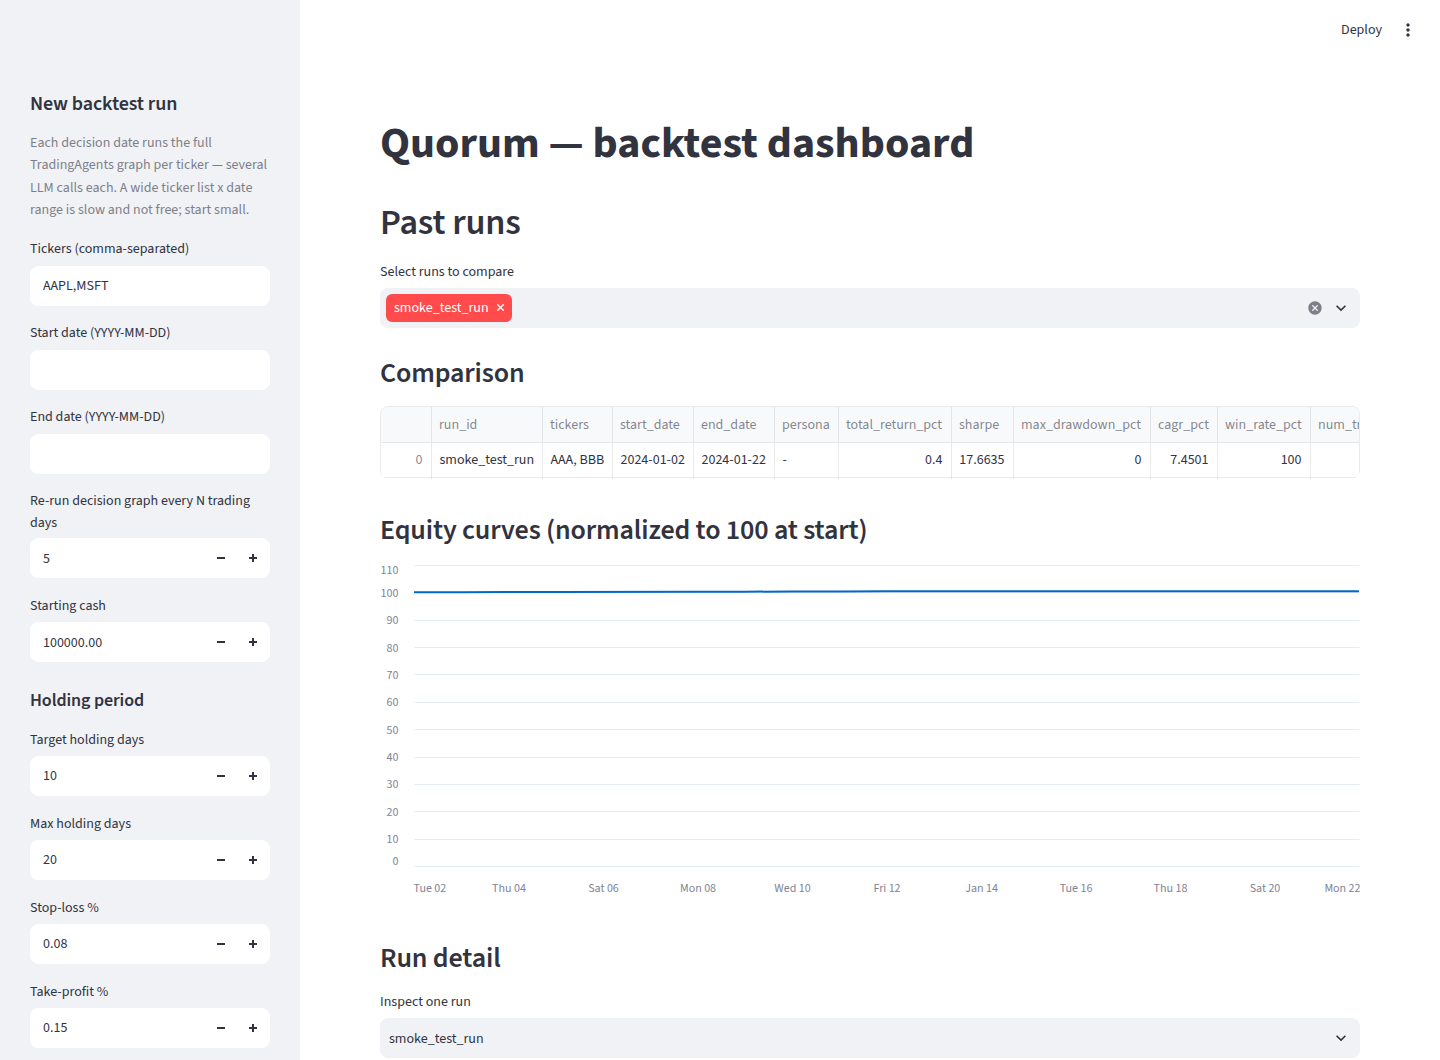
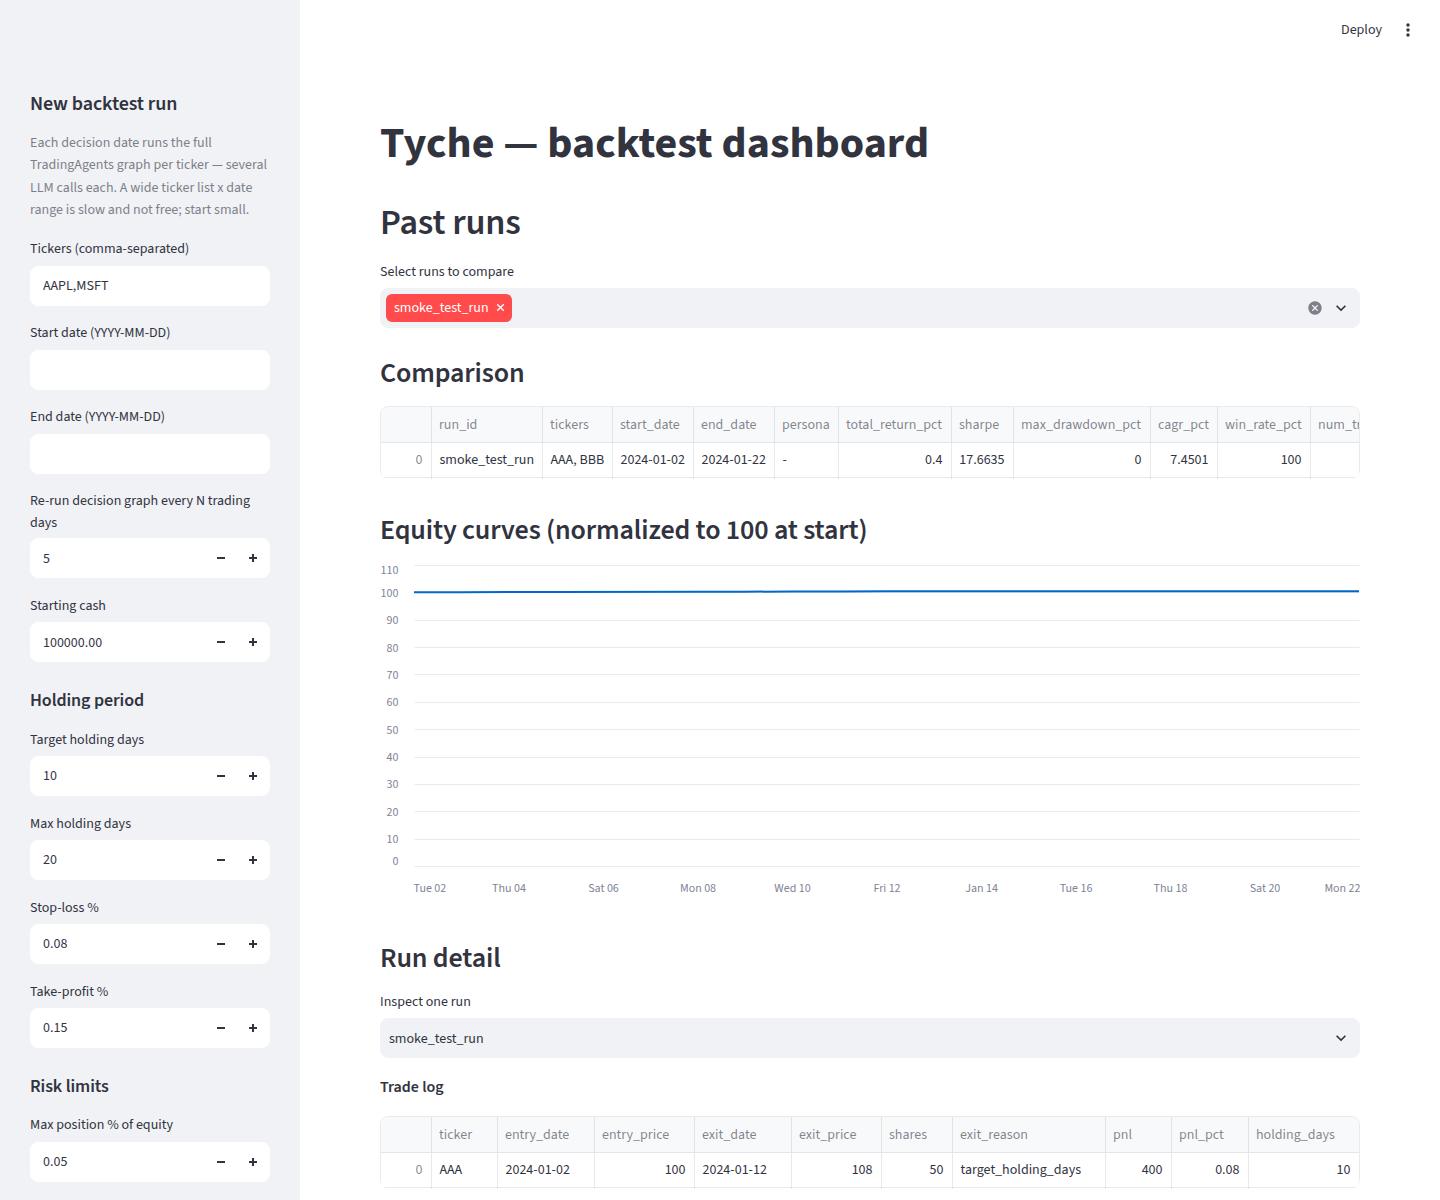
Rename project to Tyche
quorum/ -> tyche/ (including the investorskills submodule, moved via
git mv which updated .gitmodules automatically), package name in
pyproject.toml, all internal imports/paths, dashboard title, and README.
Named after Tyche (Greek goddess of fortune and chance) -- markets are her
domain regardless of how much multi-agent debate sits on top, which is
now stated directly in the README's intro alongside the Status section.
The old rationale (a quorum of agents that must agree) still describes
the decision engine's actual mechanism, so that language stays in the
README as a description, not the name.

Regenerated the dashboard screenshot against a fresh run so it shows the
new title instead of the stale one. Full test suite (27 tests) and all
three smoke tests re-verified against the renamed package before
committing.

Claude-Session: https://claude.ai/code/session_01WSfPZLNRKQYhxWWP9mVr7Q

diff --git a/tyche/personas/__init__.py b/tyche/personas/__init__.py
@@ -1,16 +1,16 @@
 """Optional investor personas layered onto TradingAgents' bull/bear debate.
 
 A persona is one skill from ``questflowai/investorskills`` (a pinned
-external checkout — see ``quorum.personas.source``) parsed into a
+external checkout — see ``tyche.personas.source``) parsed into a
 ``Persona`` and, when compatible with our ~10 trading-day swing-trading
-horizon (``quorum.personas.compatibility``), injectable into the actual
+horizon (``tyche.personas.compatibility``), injectable into the actual
 bull/bear researcher prompts TradingAgents sends to the LLM
-(``quorum.personas.graph.apply_persona``).
+(``tyche.personas.graph.apply_persona``).
 
-Typical use, alongside ``quorum.decision.engine.DecisionEngine``::
+Typical use, alongside ``tyche.decision.engine.DecisionEngine``::
 
-    from quorum.personas import CURATED_SLUGS, apply_persona, load_persona
-    from quorum.decision.engine import DecisionEngine
+    from tyche.personas import CURATED_SLUGS, apply_persona, load_persona
+    from tyche.decision.engine import DecisionEngine
 
     persona = load_persona("darvas-box")
     with apply_persona(persona):
@@ -20,24 +20,24 @@ Typical use, alongside ``quorum.decision.engine.DecisionEngine``::
 
 from __future__ import annotations
 
-from quorum.personas.compatibility import (
+from tyche.personas.compatibility import (
     HorizonEstimate,
     PersonaFit,
     assess,
     filter_compatible,
     parse_time_horizon,
 )
-from quorum.personas.curated import CURATED_SLUGS
-from quorum.personas.graph import apply_persona
-from quorum.personas.models import Persona, list_available_slugs, load_all_personas
-from quorum.personas.models import load_persona as _load_persona_from_dir
-from quorum.personas.prompts import persona_preamble
-from quorum.personas.source import resolve_source_dir
+from tyche.personas.curated import CURATED_SLUGS
+from tyche.personas.graph import apply_persona
+from tyche.personas.models import Persona, list_available_slugs, load_all_personas
+from tyche.personas.models import load_persona as _load_persona_from_dir
+from tyche.personas.prompts import persona_preamble
+from tyche.personas.source import resolve_source_dir
 
 
 def load_persona(slug: str, source_dir: str | None = None) -> Persona:
     """Load one persona by slug, resolving the investorskills checkout the
-    same way :func:`quorum.personas.source.resolve_source_dir` does."""
+    same way :func:`tyche.personas.source.resolve_source_dir` does."""
     return _load_persona_from_dir(slug, resolve_source_dir(source_dir))
 
 

diff --git a/tests/test_personas.py b/tests/test_personas.py
@@ -1,4 +1,4 @@
-"""Tests for quorum.personas: parsing, compatibility filtering, and — the
+"""Tests for tyche.personas: parsing, compatibility filtering, and — the
 bar the task actually cares about — that a selected persona's distinctive
 text really reaches the prompt handed to ``llm.invoke`` inside a
 constructed ``TradingAgentsGraph``, not just that some Python object exists.
@@ -15,17 +15,17 @@ from types import SimpleNamespace
 
 import pytest
 
-from quorum.personas.compatibility import assess, filter_compatible, parse_time_horizon
-from quorum.personas.graph import apply_persona
-from quorum.personas.models import Persona, load_all_personas, load_persona, parse_persona
-from quorum.personas.prompts import persona_preamble
-from quorum.personas.source import resolve_source_dir
+from tyche.personas.compatibility import assess, filter_compatible, parse_time_horizon
+from tyche.personas.graph import apply_persona
+from tyche.personas.models import Persona, load_all_personas, load_persona, parse_persona
+from tyche.personas.prompts import persona_preamble
+from tyche.personas.source import resolve_source_dir
 
 # The scratchpad clone this task was given to read TradingAgents/investorskills
 # source from. Real integration tests below use it when present and skip
 # cleanly (rather than failing) when this repo is checked out somewhere that
 # doesn't have it — e.g. CI, or a future clone with the real submodule set up
-# at quorum/personas/vendor/investorskills instead.
+# at tyche/personas/vendor/investorskills instead.
 _SCRATCHPAD_INVESTORSKILLS = (
     "/tmp/claude-0/-home-user-hedgefunding/586aef10-96ba-571c-b6a0-851ce8f51e35"
     "/scratchpad/research/investorskills"
@@ -159,7 +159,7 @@ Some distinctive prose about consolidation boxes.
 
 
 def test_parse_persona_missing_closing_delimiter_raises():
-    from quorum.personas.models import PersonaParseError
+    from tyche.personas.models import PersonaParseError
 
     with pytest.raises(PersonaParseError):
         parse_persona("bad", "---\nname: x\n", "invest.md")
@@ -190,7 +190,7 @@ def test_load_all_personas_is_best_effort_over_all_63_skills():
 def test_curated_personas_verified_against_real_checkout():
     """Cross-check curated.py's documented fields against the actual files —
     if investorskills changes these upstream, this test is the tripwire."""
-    from quorum.personas.curated import CURATED_SLUGS
+    from tyche.personas.curated import CURATED_SLUGS
 
     source_dir = _real_source_dir()
     expected = {

diff --git a/tyche/decision/engine.py b/tyche/decision/engine.py
@@ -9,7 +9,7 @@ decision to do nothing, it's a run that needs a human or a re-run. See
 
 The trader agent also proposes an entry price / stop-loss / position size,
 but those are advisory LLM output, not enforced limits. Our own
-``quorum.risk.gate`` and ``quorum.config`` are the actual authority on
+``tyche.risk.gate`` and ``tyche.config`` are the actual authority on
 position size and exit rules — the LLM proposes, the deterministic gate
 disposes.
 
@@ -24,9 +24,9 @@ resolved by that date). We only need to turn it on (``memory_log_path`` in
 config) and call ``settle`` once a ticker's date grid is done, exactly the
 way TradingAgents' own ``tradingagents/backtest.py`` does.
 
-An optional ``persona`` (see ``quorum.personas``) wires an investorskills
+An optional ``persona`` (see ``tyche.personas``) wires an investorskills
 investor framework into the bull/bear researcher debate via
-``quorum.personas.graph.apply_persona`` — a monkeypatch of TradingAgents'
+``tyche.personas.graph.apply_persona`` — a monkeypatch of TradingAgents'
 researcher-node factories, since there's no supported extension point for
 this (see that module's docstring for why). The patch only affects graph
 construction, so it must wrap this constructor, not calls to ``decide``.
@@ -42,9 +42,9 @@ from tradingagents.agents.utils.rating import RATING_REVIEW
 from tradingagents.default_config import DEFAULT_CONFIG
 from tradingagents.graph.trading_graph import TradingAgentsGraph
 
-from quorum.config import DEFAULT_HOLDING_PERIOD, HoldingPeriodConfig
-from quorum.personas.graph import apply_persona
-from quorum.personas.models import Persona
+from tyche.config import DEFAULT_HOLDING_PERIOD, HoldingPeriodConfig
+from tyche.personas.graph import apply_persona
+from tyche.personas.models import Persona
 
 Action = Literal["buy", "hold", "sell"]
 
@@ -81,7 +81,7 @@ class DecisionEngine:
         self,
         config: dict | None = None,
         debug: bool = False,
-        memory_log_path: str | Path | None = "results/quorum_trading_memory.md",
+        memory_log_path: str | Path | None = "results/tyche_trading_memory.md",
         holding_period: HoldingPeriodConfig = DEFAULT_HOLDING_PERIOD,
         persona: Persona | None = None,
     ):

diff --git a/tyche/dashboard/app.py b/tyche/dashboard/app.py
@@ -1,10 +1,10 @@
 """Streamlit dashboard: launch backtest runs, compare them, read what the
 agents' memory log actually learned.
 
-Run with: ``streamlit run quorum/dashboard/app.py``
+Run with: ``streamlit run tyche/dashboard/app.py``
 
 Deliberately thin: all the actual logic (running a backtest, scoring a run)
-lives in ``quorum.backtest.runner`` and ``quorum.dashboard.data``, which are
+lives in ``tyche.backtest.runner`` and ``tyche.dashboard.data``, which are
 plain Python and unit-testable without Streamlit. This file is just the UI
 wiring on top of proven libraries (Streamlit for the app shell, QuantStats
 for the metrics) rather than a custom-built dashboard.
@@ -17,16 +17,16 @@ from pathlib import Path
 import pandas as pd
 import streamlit as st
 
-from quorum.backtest.runner import RunConfig, run_backtest
-from quorum.config import DEFAULT_HOLDING_PERIOD, DEFAULT_RISK_LIMITS, HoldingPeriodConfig, RiskLimits
-from quorum.dashboard.data import compare_runs, list_run_dirs, load_run
-from quorum.personas.curated import CURATED_SLUGS
-from quorum.personas.source import resolve_source_dir
+from tyche.backtest.runner import RunConfig, run_backtest
+from tyche.config import DEFAULT_HOLDING_PERIOD, DEFAULT_RISK_LIMITS, HoldingPeriodConfig, RiskLimits
+from tyche.dashboard.data import compare_runs, list_run_dirs, load_run
+from tyche.personas.curated import CURATED_SLUGS
+from tyche.personas.source import resolve_source_dir
 
 NO_PERSONA = "(none — upstream default prompts)"
 
-st.set_page_config(page_title="Quorum backtests", layout="wide")
-st.title("Quorum — backtest dashboard")
+st.set_page_config(page_title="Tyche backtests", layout="wide")
+st.title("Tyche — backtest dashboard")
 
 with st.sidebar:
     st.header("New backtest run")
@@ -88,7 +88,7 @@ with st.sidebar:
             "Prepends the selected investor's framework (from investorskills) "
             "into TradingAgents' bull/bear researcher prompts. Curated list is "
             "pre-filtered for equities + a swing-trade horizon — see "
-            "quorum/personas/curated.py."
+            "tyche/personas/curated.py."
         ),
     )
 

diff --git a/tyche/analytics/portfolio_risk.py b/tyche/analytics/portfolio_risk.py
@@ -1,7 +1,7 @@
 """Portfolio-level risk diagnostics: concentration, correlation, and tail risk
 for a weighted equities basket.
 
-``quorum.risk.gate`` caps exposure per name and per declared sector, but a
+``tyche.risk.gate`` caps exposure per name and per declared sector, but a
 sector label can't see co-movement: a regional bank and a rate-sensitive REIT
 sit in different sectors yet can move together, and the sector cap alone
 won't catch that. This module is a read-only lens for a researcher or
@@ -12,7 +12,7 @@ no opinion on what to do about what it finds.
 Adapted from HKUDS/Vibe-Trading's ``agent/backtest/risk_xray.py`` (MIT
 licensed): the concentration/drawdown/historical-VaR/diversification-ratio/
 correlation statistics are ported here, restyled to this project's
-conventions and trimmed to what quorum needs (no JSON-artifact writer, no
+conventions and trimmed to what this project needs (no JSON-artifact writer, no
 runner-specific annualization plumbing). Not copied verbatim.
 """
 
@@ -109,7 +109,7 @@ def _validate_weights(
         if not math.isfinite(value):
             raise ValueError(f"weight for {sym!r} is not finite: {raw!r}")
         if value < 0:
-            # This project is long-only (quorum.backtest.portfolio never
+            # This project is long-only (tyche.backtest.portfolio never
             # opens a short); a negative weight here means a caller error,
             # not a short leg to size correctly.
             raise ValueError(f"weight for {sym!r} is negative ({value}); long-only basket")
@@ -138,7 +138,7 @@ def compute_portfolio_risk(
 
     Args:
         closes: Wide close-price panel, index=date, one column per ticker
-            (e.g. built by joining ``quorum.data.equities.get_price_history``
+            (e.g. built by joining ``tyche.data.equities.get_price_history``
             outputs on their ``close`` columns).
         weights: Ticker -> weight, renormalized to sum 1.0 if it doesn't
             already (a warning is added when that happens). Must be

diff --git a/tyche/backtest/runner.py b/tyche/backtest/runner.py
@@ -13,12 +13,12 @@ from dataclasses import asdict, dataclass, field
 from datetime import datetime
 from pathlib import Path
 
-from quorum.backtest.portfolio import PortfolioSimulator
-from quorum.config import DEFAULT_HOLDING_PERIOD, DEFAULT_RISK_LIMITS, HoldingPeriodConfig, RiskLimits
-from quorum.data.equities import get_price_history
-from quorum.decision.engine import DecisionEngine
-from quorum.personas.models import load_persona
-from quorum.personas.source import resolve_source_dir
+from tyche.backtest.portfolio import PortfolioSimulator
+from tyche.config import DEFAULT_HOLDING_PERIOD, DEFAULT_RISK_LIMITS, HoldingPeriodConfig, RiskLimits
+from tyche.data.equities import get_price_history
+from tyche.decision.engine import DecisionEngine
+from tyche.personas.models import load_persona
+from tyche.personas.source import resolve_source_dir
 
 RESULTS_DIR = Path("results/runs")
 
@@ -40,10 +40,10 @@ class RunConfig:
     risk_limits: RiskLimits = field(default_factory=lambda: DEFAULT_RISK_LIMITS)
     sector_by_ticker: dict[str, str] = field(default_factory=dict)
     persona_slug: str | None = None
-    """Investorskills slug (see quorum.personas.curated.CURATED_SLUGS) to
+    """Investorskills slug (see tyche.personas.curated.CURATED_SLUGS) to
     apply to the bull/bear researcher debate, or None for upstream's
     unmodified prompts. Not validated for horizon/asset-class fit here —
-    that's quorum.personas.compatibility's job, run it yourself first."""
+    that's tyche.personas.compatibility's job, run it yourself first."""
 
 
 def run_backtest(config: RunConfig, run_id: str | None = None, debug: bool = False) -> Path:

diff --git a/tyche/personas/source.py b/tyche/personas/source.py
@@ -12,13 +12,13 @@ The natural mechanism for a non-package data dependency pinned to a commit
 is a **git submodule**. That is the recommended, permanent setup:
 
     git submodule add https://github.com/questflowai/investorskills \\
-        quorum/personas/vendor/investorskills
-    git -C quorum/personas/vendor/investorskills checkout {PINNED_COMMIT}
+        tyche/personas/vendor/investorskills
+    git -C tyche/personas/vendor/investorskills checkout {PINNED_COMMIT}
     git submodule update --init --recursive   # after cloning this repo
 
 We do not run ``git submodule add`` from this module: it writes
 ``.gitmodules`` at the repository root, and this persona layer was built
-under an instruction to touch nothing outside ``quorum/personas/``. So for
+under an instruction to touch nothing outside ``tyche/personas/``. So for
 now this file documents the submodule as the intended end state and also
 works standalone: :func:`fetch` clones the pinned commit into the same
 vendor path with plain ``git`` (no submodule bookkeeping), and
@@ -79,7 +79,7 @@ def resolve_source_dir(explicit: str | Path | None = None) -> Path:
     raise FileNotFoundError(
         "No investorskills checkout found (looked at: "
         f"{', '.join(str(c) for c in candidates)}). Fetch it with "
-        f"quorum.personas.source.fetch(), set {_ENV_VAR} to an existing "
+        f"tyche.personas.source.fetch(), set {_ENV_VAR} to an existing "
         f"clone, or run:\n"
         f"  git submodule add {SOURCE_URL} {DEFAULT_VENDOR_DIR}\n"
         f"  git -C {DEFAULT_VENDOR_DIR} checkout {PINNED_COMMIT}"

diff --git a/tyche/execution/alpaca.py b/tyche/execution/alpaca.py
@@ -6,10 +6,10 @@ review, safety soak period, or slippage/latency validation done for this
 project — turning this into a live connector is a deliberate future step,
 not a config flag.
 
-Every order still passes through ``quorum.risk.gate.RiskGate`` before
+Every order still passes through ``tyche.risk.gate.RiskGate`` before
 submission — a ``Decision`` never reaches the broker directly. Exits are
 not handled here: this project's holding-period/stop-loss/take-profit
-logic lives in ``quorum.backtest.portfolio.PortfolioSimulator`` for
+logic lives in ``tyche.backtest.portfolio.PortfolioSimulator`` for
 backtesting; a live analogue of that (checking open Alpaca positions
 against the same exit rules once a day) is the natural next module, not
 yet built.
@@ -24,9 +24,9 @@ from alpaca.trading.client import TradingClient
 from alpaca.trading.enums import OrderSide, TimeInForce
 from alpaca.trading.requests import MarketOrderRequest
 
-from quorum.config import DEFAULT_RISK_LIMITS, RiskLimits
-from quorum.decision.engine import Decision
-from quorum.risk.gate import RiskGate
+from tyche.config import DEFAULT_RISK_LIMITS, RiskLimits
+from tyche.decision.engine import Decision
+from tyche.risk.gate import RiskGate
 
 
 class NotPaperTradingError(Exception):

diff --git a/tyche/personas/models.py b/tyche/personas/models.py
@@ -4,7 +4,7 @@
 Both files are YAML frontmatter (delimited by ``---`` lines) followed by a
 markdown body. ``invest.md`` (see investorskills' ``docs/spec.md``) carries
 the richer, more structured frontmatter — ``timeHorizon``, ``assetClasses``,
-``style``, etc. — that ``quorum.personas.compatibility`` filters on, so we
+``style``, etc. — that ``tyche.personas.compatibility`` filters on, so we
 prefer it; a skill with only ``SKILL.md`` still has *a* frontmatter (name/
 description) we can build a persona from, just with fewer machine-readable
 fields.
@@ -33,11 +33,11 @@ class Persona:
     style: str
     time_horizon: str
     """Raw free-text horizon (e.g. "days-weeks", "5-10 years") — see
-    ``quorum.personas.compatibility`` for parsing this into a day range."""
+    ``tyche.personas.compatibility`` for parsing this into a day range."""
     asset_classes: list[str] = field(default_factory=list)
     body: str = ""
     """Markdown body (philosophy/signals/filters/analysis prose) — the part
-    injected into agent prompts. See ``quorum.personas.prompts``."""
+    injected into agent prompts. See ``tyche.personas.prompts``."""
     source_file: str = ""
     """"invest.md" or "SKILL.md" — which file supplied the frontmatter."""
 

diff --git a/tyche/backtest/portfolio.py b/tyche/backtest/portfolio.py
@@ -4,8 +4,8 @@ TradingAgents' own ``tradingagents/backtest.py`` deliberately stops at
 scoring a rating against realized/alpha return per (ticker, date) cell — its
 own docstring says explicitly it is not a portfolio simulator and "must not
 grow one." This module is the layer upstream intentionally left out: entry
-sizing (via ``quorum.risk.gate``), a holding-period exit rule (via
-``quorum.config.HoldingPeriodConfig``), and a resulting trade log/equity
+sizing (via ``tyche.risk.gate``), a holding-period exit rule (via
+``tyche.config.HoldingPeriodConfig``), and a resulting trade log/equity
 curve.
 
 Driven one trading day at a time via ``run_day`` — the caller (a backtest
@@ -19,9 +19,9 @@ from dataclasses import dataclass
 
 import pandas as pd
 
-from quorum.config import DEFAULT_HOLDING_PERIOD, DEFAULT_RISK_LIMITS, HoldingPeriodConfig, RiskLimits
-from quorum.decision.engine import Decision
-from quorum.risk.gate import RiskGate
+from tyche.config import DEFAULT_HOLDING_PERIOD, DEFAULT_RISK_LIMITS, HoldingPeriodConfig, RiskLimits
+from tyche.decision.engine import Decision
+from tyche.risk.gate import RiskGate
 
 
 @dataclass

diff --git a/tyche/analytics/correlation_regime.py b/tyche/analytics/correlation_regime.py
@@ -5,7 +5,7 @@ edge-density number per bar (the fraction of pairs whose |correlation|
 clears a threshold), then run through a hysteresis state machine so the
 regime label doesn't chatter every time the density wobbles across one
 threshold. The output is descriptive context -- e.g. for the analyst step in
-``quorum.decision.engine`` to note "the market has been broadly correlated
+``tyche.decision.engine`` to note "the market has been broadly correlated
 for the last two weeks" -- not a trading signal or a risk-gate input.
 
 Adapted from HKUDS/Vibe-Trading's ``agent/backtest/regime.py`` (MIT
@@ -14,7 +14,7 @@ ported here, restyled to this project's conventions. The original file's
 multi-market symbol inference and live price-fetch plumbing (crypto/HK/A-share
 loader fallback chains) is dropped entirely -- this module is a pure function
 over a returns DataFrame the caller supplies, e.g. built from
-``quorum.data.equities.get_price_history``. Not copied verbatim.
+``tyche.data.equities.get_price_history``. Not copied verbatim.
 """
 
 from __future__ import annotations

diff --git a/tyche/data/equities.py b/tyche/data/equities.py
@@ -30,7 +30,7 @@ def get_price_history(
 
     Returned frame is adjusted-close by the provider's own convention;
     callers doing PIT-sensitive work should check
-    ``quorum.backtest.validators.check_adjustment_convention``.
+    ``tyche.backtest.validators.check_adjustment_convention``.
     """
     result = obb.equity.price.historical(
         symbol=symbol,
@@ -56,7 +56,7 @@ def get_filings(symbol: str, provider: str = "sec", limit: int = 50) -> pd.DataF
     """SEC filings with their actual public filing date.
 
     This is the timestamp that matters for PIT correctness — see
-    ``check_no_filing_leakage`` in ``quorum.backtest.validators``.
+    ``check_no_filing_leakage`` in ``tyche.backtest.validators``.
     The fiscal period a filing covers is not the date it became public.
     """
     result = obb.equity.fundamental.filings(symbol=symbol, provider=provider, limit=limit)
